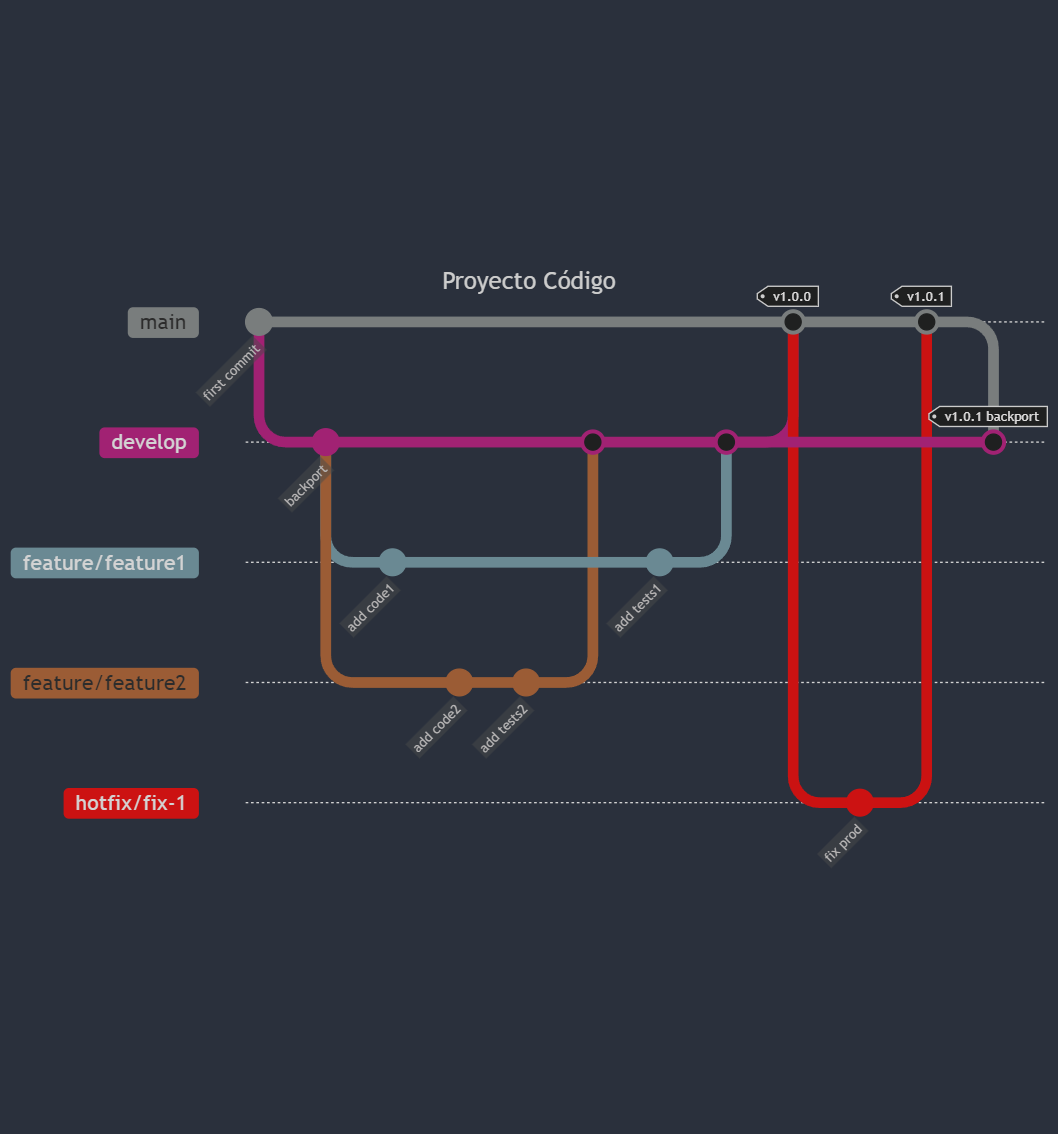
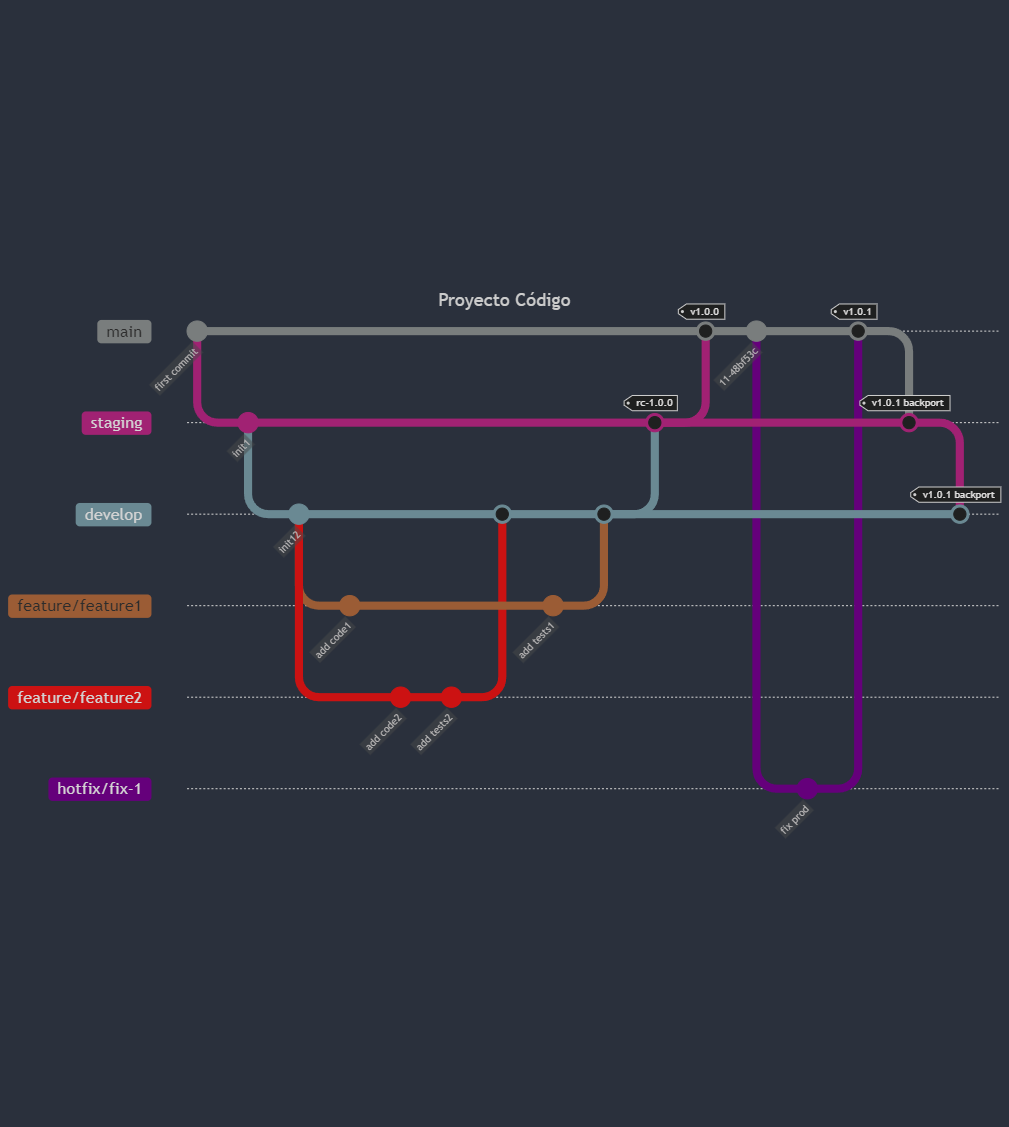
add staging branch to diagram

diff --git a/diagramas/GitFlow.md b/diagramas/GitFlow.md
@@ -5,13 +5,16 @@ title: Proyecto Código
 gitGraph
 
    commit id: "first commit" 
+   branch staging
+   commit id: "init1"
    branch develop
-   checkout develop
-   commit id: "backport" 
+   commit id: "init12"
+   
    branch feature/feature1
    checkout feature/feature1
    commit id: "add code1" 
    checkout develop
+
    branch feature/feature2
    checkout feature/feature2
    commit id: "add code2" 
@@ -22,15 +25,25 @@ gitGraph
    checkout feature/feature1
    commit id: "add tests1" 
    checkout develop 
-   merge feature/feature1
+    merge feature/feature1
+    
+   checkout staging
+   merge develop tag: "rc-1.0.0"
+
    checkout main
-   merge develop tag: "v1.0.0"
+   merge staging tag: "v1.0.0"
+   
    checkout main
+
+   commit id: ""
+   
    branch hotfix/fix-1
    commit id: "fix prod"
    checkout hotfix/fix-1
    checkout main
    merge hotfix/fix-1 tag: "v1.0.1"
-   checkout develop
+   checkout staging
    merge main tag: "v1.0.1 backport"
+   checkout develop
+   merge staging tag: "v1.0.1 backport"
    ``` 
